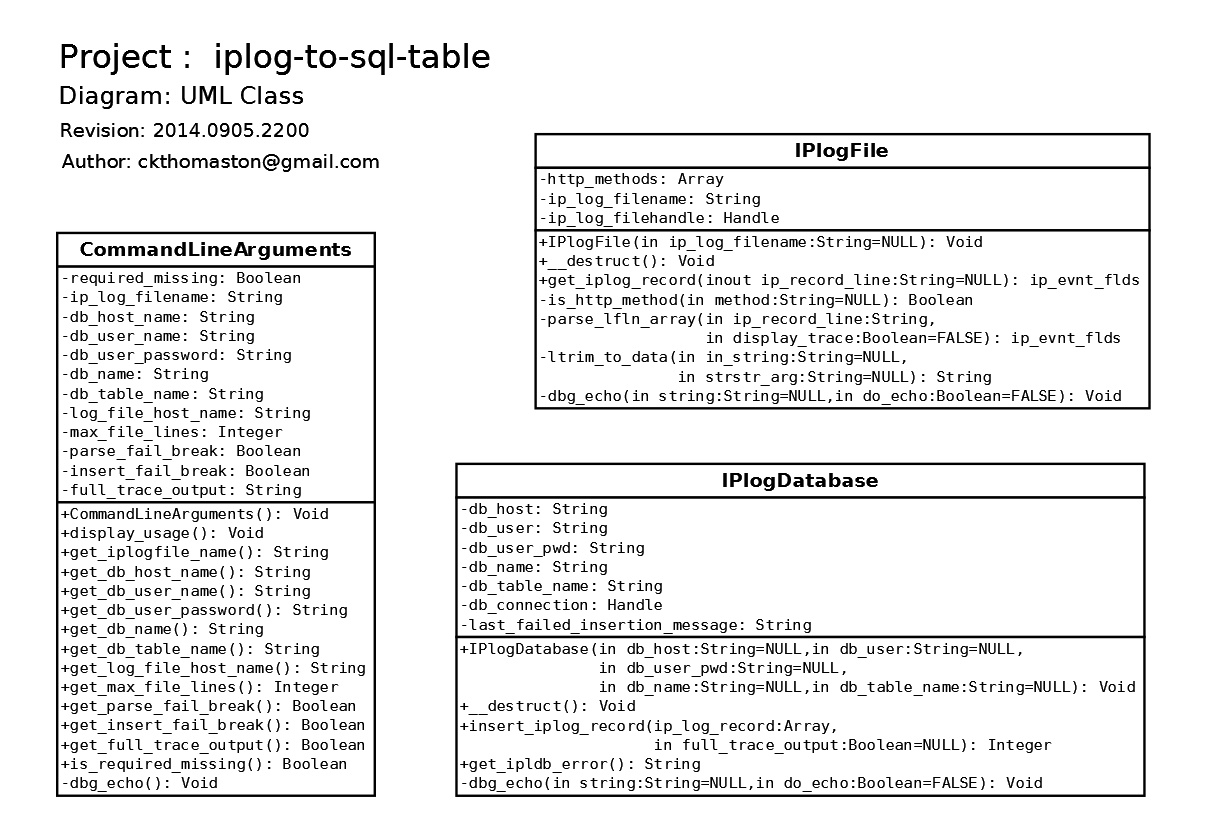
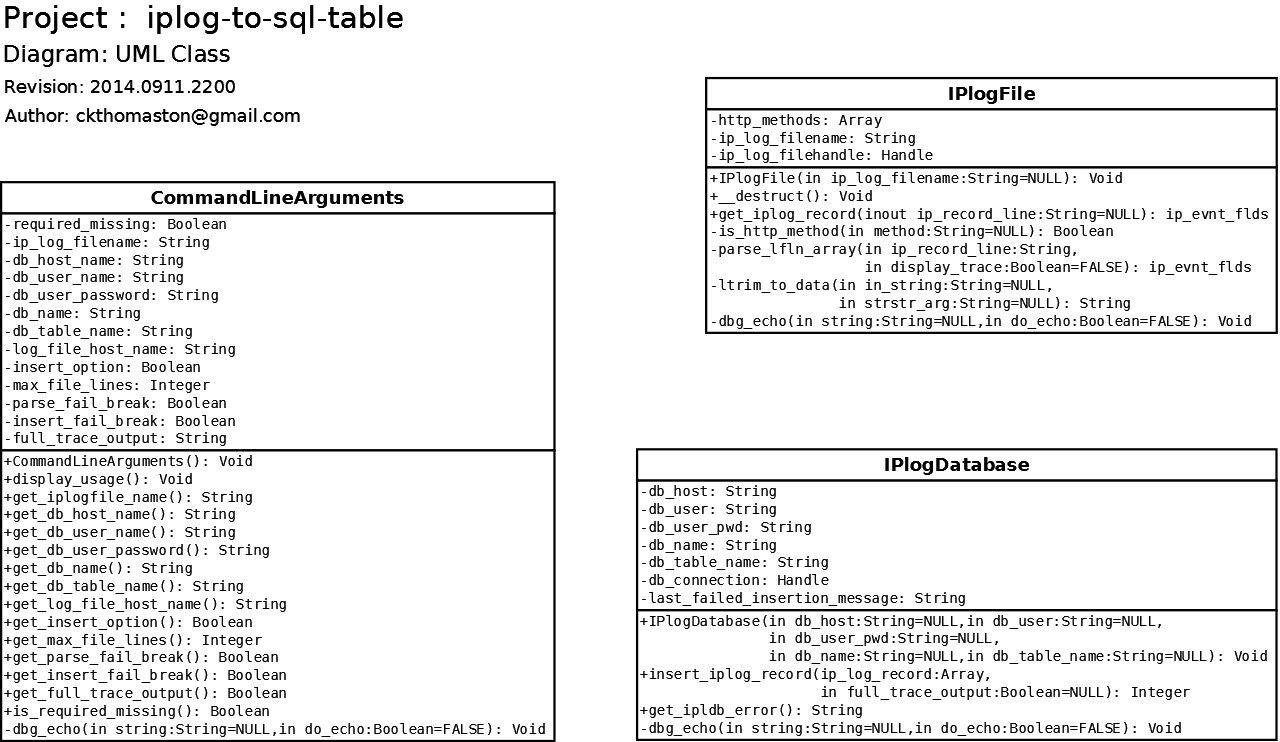
added 'insert' option

Changed region(s): [[0.0, 0.0, 1.0, 1.0]]

diff --git a/ipl-to-db.php b/ipl-to-db.php
@@ -2,13 +2,15 @@
 /*
     File: ipl-to-db.php
     Product:  iplog-to-sql-table
-    Rev 2014.0907.1315
+    Rev 2014.0911.2200
     by ckthomaston@gmail.com
    
     Description:
     
         Reads an IP log file, parses fields from each line, and inserts one
-        record of fields for each line into an SQL database table.
+        record of fields for each line into an SQL database table.  If the
+        specified table does not already exist in the SQL database, it will
+        be created.  If a table already exists, the IP log records are appended.
         
         If parsing an IP log file line fails due to malformed fields, or if the 
         field does not pass validation, that record will not be inserted into the
@@ -17,7 +19,7 @@
         
         Usage:  ipl-to-db fname=logfilename dhname=dbhostname duname=dbusername
                 dupwd=dbuserpasswd dname=dbname tname=tblname hname=hostname
-                [maxl=number] [pbrk=ON] [ibrk=ON] [maxverb=ON]
+                [insert] [maxl=number] [pbrk] [ibrk] [maxverb]
         
         Where:  fname=   IP log file name, (required)
                dhname=   SQL db server, (host), name, (required)
@@ -26,14 +28,26 @@
                 dname=   SQL db name, (required)
                 tname=   SQL db table, (required)
                 hname=   Host domain name or IP address, (required)
+                insert   No Argument.  Causes insertion of successfully\n"
+                         parsed/validated IP records, (optional)\n"
                  maxl=   Maximum number of lines to
                          read from IP log file, (optional)
-               pbrk=ON   Causes  exit if a parse error
+                  pbrk   No Argument.  Causes  exit if a parse error
                          is encountered, (optional)
-               ibrk=ON   Causes exit if an insertion error
+                  ibrk   No Argument.  Causes exit if an insertion error
                          is encountered, (optional)
-            maxverb=ON   Enables all tracing echo, (optional)
+               maxverb   No Argument.  Enables all tracing echo, (optional)
         
+        
+        IMPORTANT - The use of the "insert" option is REQUIRED if you wish
+        records to be inserted into the SQL database.  By default, the "insert"
+        option is NOT SET.  This gives the behavior of making the program "safe"
+        to use for examination of success/fail rates of IP log parsing and
+        validation errors, without commtting records to the SQL database.  If
+        this fail-safe was not the default behavior, a user could
+        unintentionally append records to the database, therby contaminating it
+        with duplicate records.  Forcing the user to specify the "insert"
+        option prevents unintentional record insertion.
         
         The "maxl" and "maxverb" options typically are not used in production,
         they are provided as a convenience for testing and debugging.
@@ -80,7 +94,7 @@ function dbg_echo ($string, $do_echo = FALSE) {
 // mark time for elapsed time displayed in Summary
 $start_time = time();
 
-echo "ipl-to-db.php v2014.0907.1315\n"
+echo "ipl-to-db.php v2014.0911.2200\n"
     . "Inserts parsed IP log file line fields into an SQL db.\n";
 
 // put command line arguments into the $_GET variable
@@ -108,6 +122,9 @@ $this_host = $CommandLineData->get_log_file_host_name();
 
 // optional command line arguments ---------------------------------------
 
+// user may want to insert records into SQL database
+$insert_record_option = $CommandLineData->get_insert_option();
+    
 // user may want to set max num of lines to read from IP log file.
 // Typically set to a low value during debug, very high in production
 $max_file_lines = $CommandLineData->get_max_file_lines();
@@ -207,56 +224,59 @@ while ($logfile_readln_attempts++ < $max_file_lines) {
     if (!$ip_evnt_flds) {
         $parse_fail_count++;
         dbg_echo ("IP log file line contents : $ip_record_line"
-            . "IP log file line parse failed, skipping this line without inserting into SQL table.\n", TRUE);
+            . "NOTICE : IP log file line parse or validation failed, skipping\n"
+            . "         this line without inserting into SQL table.\n", TRUE);
         if ($parse_fail_break) {
-            dbg_echo ("pbrk==ON: IP log file line parse failed, no more IP log lines will be read.\n", TRUE);
+            dbg_echo ("pbrk : IP log file line parse failed, no more IP log lines will be read.\n", TRUE);
             break;
         }
-    } else { // we have a populated $ip_evnt_flds array, insert it into the db
-        $ip_log_record["IPEventNumber"] = $ip_event_number;
-        $ip_log_record["IPaddress"] = $ip_evnt_flds["IPaddress"];
-        $ip_log_record["DateTime"] = $ip_evnt_flds["DateTime"];
-        $ip_log_record["MethodURI"] = $ip_evnt_flds["MethodURI"];
-        $ip_log_record["Status"] = $ip_evnt_flds["Status"];
-        $ip_log_record["PageSize"] = $ip_evnt_flds["PageSize"];
-        $ip_log_record["Referer"] = $ip_evnt_flds["Referer"];
-        $ip_log_record["Agent"] = $ip_evnt_flds["Agent"];
-        $ip_log_record["ThisHost"] = $this_host;
-        $ip_log_record["InsertionTime"] = date("Y.md.Hi.s");
-
-        $insertion_result = $IPlogDatabase->insert_iplog_record ($ip_log_record, $full_trace_output);
-        
-        if ($insertion_result == IPLDB_ERR_UNABLE_TO_CONNECT_DB) {
-            dbg_echo ("Cannot continue, exiting\n\n", TRUE);
-            exit (CLI_ERR_UNABLE_TO_CONNECT_DB);
-        }
-        
-        if ($insertion_result == IPLDB_ERR_DB_INSERTION_FAIL) {
-            $failed_insertion_message = $IPlogDatabase->get_ipldb_error();
-            dbg_echo ("\nError during record INSERT : " . $failed_insertion_message . "\n", TRUE);
-            dbg_echo (
-                "Dump SQL insertion query\n" .
-                "   IPEventNumber : $ip_log_record[IPEventNumber]\n" .
-                "   IPaddress : $ip_log_record[IPaddress]\n" .
-                "   DateTime : $ip_log_record[DateTime]\n" .
-                "   MethodURI : $ip_log_record[MethodURI]\n" .
-                "   Status : $ip_log_record[Status]\n" .
-                "   PageSize : $ip_log_record[PageSize]\n" .
-                "   Referer : $ip_log_record[Referer]\n" .
-                "   Agent : $ip_log_record[Agent]\n" .
-                "   ThisHost : $ip_log_record[ThisHost]\n" .
-                "   InsertionTime : $ip_log_record[InsertionTime]\n"
-                , TRUE);
-            $insert_fail_count++;
-            dbg_echo ("Insertion failed, record not added. Current insertion fail count: $insert_fail_count\n", $full_trace_output);
-            if ($insert_fail_break) {
-                dbg_echo ("ibrk==ON: SQL insertion failed, no more IP log lines will be read.\n", TRUE);
-                break;
+    } else { // we have a populated $ip_evnt_flds array, insert it into the db if allowed
+        if ($insert_record_option) {  // if insert-record-option set, do insertion
+            $ip_log_record["IPEventNumber"] = $ip_event_number;
+            $ip_log_record["IPaddress"] = $ip_evnt_flds["IPaddress"];
+            $ip_log_record["DateTime"] = $ip_evnt_flds["DateTime"];
+            $ip_log_record["MethodURI"] = $ip_evnt_flds["MethodURI"];
+            $ip_log_record["Status"] = $ip_evnt_flds["Status"];
+            $ip_log_record["PageSize"] = $ip_evnt_flds["PageSize"];
+            $ip_log_record["Referer"] = $ip_evnt_flds["Referer"];
+            $ip_log_record["Agent"] = $ip_evnt_flds["Agent"];
+            $ip_log_record["ThisHost"] = $this_host;
+            $ip_log_record["InsertionTime"] = date("Y.md.Hi.s");
+    
+            $insertion_result = $IPlogDatabase->insert_iplog_record ($ip_log_record, $full_trace_output);
+            
+            if ($insertion_result == IPLDB_ERR_UNABLE_TO_CONNECT_DB) {
+                dbg_echo ("Cannot continue, exiting\n\n", TRUE);
+                exit (CLI_ERR_UNABLE_TO_CONNECT_DB);
             }
-        } 
-        
-        $lines_inserted++;
-        dbg_echo ("This record added to SQL table.\n", $full_trace_output);
+            
+            if ($insertion_result == IPLDB_ERR_DB_INSERTION_FAIL) {
+                $failed_insertion_message = $IPlogDatabase->get_ipldb_error();
+                dbg_echo ("\nError during record INSERT : " . $failed_insertion_message . "\n", TRUE);
+                dbg_echo (
+                    "Dump SQL insertion query\n" .
+                    "   IPEventNumber : $ip_log_record[IPEventNumber]\n" .
+                    "   IPaddress : $ip_log_record[IPaddress]\n" .
+                    "   DateTime : $ip_log_record[DateTime]\n" .
+                    "   MethodURI : $ip_log_record[MethodURI]\n" .
+                    "   Status : $ip_log_record[Status]\n" .
+                    "   PageSize : $ip_log_record[PageSize]\n" .
+                    "   Referer : $ip_log_record[Referer]\n" .
+                    "   Agent : $ip_log_record[Agent]\n" .
+                    "   ThisHost : $ip_log_record[ThisHost]\n" .
+                    "   InsertionTime : $ip_log_record[InsertionTime]\n"
+                    , TRUE);
+                $insert_fail_count++;
+                dbg_echo ("Insertion failed, record not added. Current insertion fail count: $insert_fail_count\n", $full_trace_output);
+                if ($insert_fail_break) {
+                    dbg_echo ("ibrk : SQL insertion failed, no more IP log lines will be read.\n", TRUE);
+                    break;
+                }
+            } 
+            $lines_inserted++;
+            dbg_echo ("This record added to SQL table.\n", $full_trace_output);
+        } else
+            dbg_echo ("insert : insert-record-option not set, skipping insertion.\n", $full_trace_output);
     }
 }
 

diff --git a/iltd-includes/command-line-arguments.php b/iltd-includes/command-line-arguments.php
@@ -2,7 +2,7 @@
 /*
     File: command-line-arguments.php
     Product:  iplog-to-sql-table
-    Rev 2014.0907.1315
+    Rev 2014.0911.2200
     by ckthomaston@gmail.com
    
     Description:
@@ -49,6 +49,7 @@ class CommandLineArguments {
     private $log_file_host_name = NULL;
     
     // optional
+    private $insert_option = FALSE;
     private $max_file_lines = 0; // read to EOF if < 1
     private $parse_fail_break = FALSE;
     private $insert_fail_break = FALSE;
@@ -119,12 +120,20 @@ class CommandLineArguments {
             $this->dbg_echo ("\nRequired arguments not specified\n");
             $this->display_usage ();
         }
-        else { // all required has been specified, display options
+        else {   // all required has been specified, display options
+            // user may want to insert record into SQL database
+            if (array_key_exists ( 'insert', $CLA_GET )) {
+                $this->insert_option = TRUE;
+                $this->dbg_echo ("\nSQL insert-record-option set.  Good records will be inserted into SQL database.\n", TRUE);
+            } else
+                $this->dbg_echo ("\nNOTICE : SQL insert-record-option NOT set.\n"
+                              .  "         No records will be inserted into SQL database.\n", TRUE);
+    
             // user may want max num of IP log file lines to read and insert into table.
             // Typically set to a low value during debug, very high in production
             if (array_key_exists ( 'maxl', $CLA_GET )) {
                 $this->max_file_lines = $CLA_GET['maxl'];
-                $this->dbg_echo ("\nMaximum number of lines specified : " . $this->max_file_lines . "\n", TRUE);
+                $this->dbg_echo ("\nMaximum number of lines specified to read from IP log : " . $this->max_file_lines . "\n", TRUE);
             }
             else {
                 $this->max_file_lines = 1.0e9; // attempt some very large number of lines before EOF
@@ -133,23 +142,20 @@ class CommandLineArguments {
 
             // user may want to break on parse fail
             if (array_key_exists ( 'pbrk', $CLA_GET )) {
-                $this->parse_fail_break = $CLA_GET['pbrk'];
-                if ($this->parse_fail_break == "ON")
-                    $this->dbg_echo ("IP log file parse-fail-break set to break.\n", TRUE);
+                $this->parse_fail_break = TRUE;
+                $this->dbg_echo ("IP log file parse-fail-break set to break.\n", TRUE);
             }
     
             // user may want to break on insertion into SQL table fail
             if (array_key_exists ( 'ibrk', $CLA_GET )) {
-                $this->insert_fail_break = $CLA_GET['ibrk'];
-                if ($this->insert_fail_break == "ON")
-                    $this->dbg_echo ("SQL record insertion-fail-break set to break.\n", TRUE);
+                $this->insert_fail_break = TRUE;
+                $this->dbg_echo ("SQL record insertion-fail-break set to break.\n", TRUE);
             }
     
             // user may want max verbosity
             if (array_key_exists ( 'maxverb', $CLA_GET )) {
-                $this->full_trace_output = $CLA_GET['maxverb'];
-                if ($this->full_trace_output == "ON")
-                    $this->dbg_echo ("Output tracing set to max verbosity.\n", TRUE);
+                $this->full_trace_output = TRUE;
+                $this->dbg_echo ("Output tracing set to max verbosity.\n", TRUE);
             }
         }
     }
@@ -165,13 +171,15 @@ class CommandLineArguments {
             . "        dname=   SQL db name, (required)\n"
             . "        tname=   SQL db table, (required)\n"
             . "        hname=   Host domain name or IP address, (required)\n"
+            . "        insert   No Argument.  Causes insertion of successfully\n"
+            . "                 parsed/validated IP record, (optional)\n"
             . "         maxl=   Integer, maximum number of lines to\n"
             . "                 read from IP log file, (optional)\n"
-            . "       pbrk=ON   Causes  exit if a parse error\n"
+            . "          pbrk   No Argument.  Causes  exit if a parse error\n"
             . "                 is encountered, (optional)\n"
-            . "       ibrk=ON   Causes exit if an insertion error\n"
+            . "          ibrk   No Argument.  Causes exit if an insertion error\n"
             . "                 is encountered, (optional)\n"
-            . "    maxverb=ON   Enables all tracing echo\n";
+            . "       maxverb   No Argument.  Enables all tracing echo\n";
     }
     
     public function is_required_missing () {
@@ -211,6 +219,11 @@ class CommandLineArguments {
     public function get_log_file_host_name () {
         
         return $this->log_file_host_name;
+    }
+    
+    public function get_insert_option () {
+        
+        return $this->insert_option;
     }
     
     public function get_max_file_lines () {

diff --git a/iltd-includes/iplog-database.php b/iltd-includes/iplog-database.php
@@ -2,7 +2,7 @@
 /*
     File: iplog-database.php
     Product:  iplog-to-sql-table
-    Rev 2014.0905.2200
+    Rev 2014.0911.2200
     by ckthomaston@gmail.com
    
     Description:
@@ -12,9 +12,8 @@
     
     Developer's notes:
     
-        In addition to connecting and disconnecting the database, and ensuring
-        the specified table exists in the database, this class inserts
-        records into the database.
+        In addition to connecting the database and ensuring the specified table
+        exists in the database, this class inserts records into the database.
 
         For more information about re-using the source code in this product, see
         the .php files.
@@ -48,7 +47,7 @@ class IPlogDatabase {
     private $db_user_pwd = NULL;
     private $db_name = NULL;
     private $db_table_name = NULL;
-    
+
     private $db_connection = NULL;
     private $last_failed_insertion_message = NULL;
     
@@ -60,10 +59,6 @@ class IPlogDatabase {
         $this->db_table_name = $db_table_name;
     }
     
-    public function __destruct () {
-            $this->dbg_echo ("Disconnected from MySQL.\n", TRUE);
-    }
-
     public function insert_iplog_record ($ip_log_record = NULL, $full_trace_output = FALSE) 
     {
         if (!$ip_log_record)

diff --git a/iltd-includes/iplog-file.php b/iltd-includes/iplog-file.php
@@ -3,7 +3,7 @@
 /*
     File: iplog-file.php
     Product:  iplog-to-sql-table
-    Rev 2014.0907.1315
+    Rev 2014.0911.2200
     by ckthomaston@gmail.com
    
     Description:

diff --git a/README.md b/README.md
@@ -6,7 +6,9 @@ Reads an IP log, (HTTP access), file and inserts one record of fields for each l
 Description:
 
     Reads an IP log file, parses fields from each line, and inserts one
-    record of fields for each line into an SQL database table.
+    record of fields for each line into an SQL database table.  If the
+    specified table does not already exist in the SQL database, it will
+    be created.  If a table already exists, the IP log records are appended.
 
     If parsing an IP log file line fails due to malformed fields, or if the 
     field does not pass validation, that record will not be inserted into the
@@ -15,7 +17,7 @@ Description:
 
     Usage:  ipl-to-db fname=logfilename dhname=dbhostname duname=dbusername
             dupwd=dbuserpasswd dname=dbname tname=tblname hname=hostname
-            [maxl=number] [pbrk=ON] [ibrk=ON] [maxverb=ON]
+            [insert] [maxl=number] [pbrk] [ibrk] [maxverb]
             
     Where:  fname=   IP log file name, (required)
            dhname=   SQL db server, (host), name, (required)
@@ -24,15 +26,27 @@ Description:
             dname=   SQL db name, (required)
             tname=   SQL db table, (required)
             hname=   Host domain name or IP address, (required)
+            insert   No Argument.  Causes insertion of successfully\n"
+                     parsed/validated IP records, (optional)\n"
              maxl=   Maximum number of lines to
                      read from IP log file, (optional)
-           pbrk=ON   Causes  exit if a parse error
+              pbrk   No argument.  Causes exit if a parse or validation error
                      is encountered, (optional)
-           ibrk=ON   Causes exit if an insertion error
+              ibrk   No argument.  Causes exit if an insertion error
                      is encountered, (optional)
-        maxverb=ON   Enables all tracing echo, (optional)
+           maxverb   No argument.  Enables all tracing echo, (optional)
 
 
+    IMPORTANT - The use of the "insert" option is REQUIRED if you wish
+    records to be inserted into the SQL database.  By default, the "insert"
+    option is NOT SET.  This gives the behavior of making the program "safe"
+    to use for examination of success/fail rates of IP log parsing and
+    validation errors, without commtting records to the SQL database.  If
+    this fail-safe was not the default behavior, a user could
+    unintentionally append records to the database, therby contaminating it
+    with duplicate records.  Forcing the user to specify the "insert"
+    option prevents unintentional record insertion.
+        
     The "maxl" and "maxverb" options typically are not used in production,
     they are provided as a convenience for testing and debugging.
 
